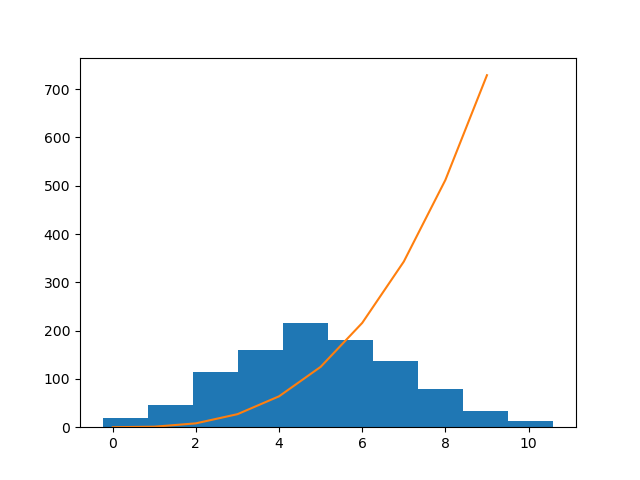
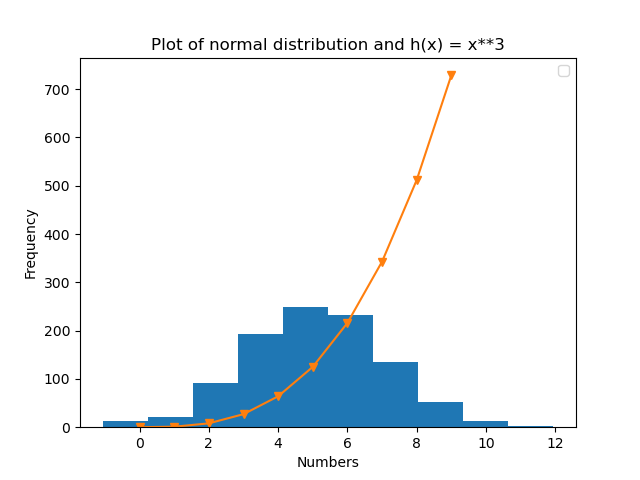
added title and label axis, error with legend

diff --git a/plottask.py b/plottask.py
@@ -8,14 +8,32 @@
 import numpy as np
 import matplotlib.pyplot as plt
 
+np.random.seed(123355)
 data = np.random.normal(5, 2, 1000)  # inputs into the normal(mean, standard deviation, values)
 
 plt.hist(data)
 
-x_points = np.array(range(0, 10))
-y_points = x_points*x_points*x_points
-plt.plot(x_points, y_points)
+# Plot the function h(x) = x^3 in the range of 0 to 10
 
+# Generate x points
+x_points = np.array(range(0, 10))
+
+# Generate the y-points. y = x cubed.
+y_points = x_points**3
+
+# Line plot of the function
+plt.plot(x_points, y_points, marker = 'v')
+
+# Add title and label x and y axis.
+
+plt.title("Plot of normal distribution and h(x) = x**3")
+plt.xlabel("Numbers")
+plt.ylabel("Frequency")
+plt.legend(x_points)
+
+# Save the plot as a png file
 plt.savefig("plottask.png")
+
+# Display the plot on screen
 plt.show()
 
